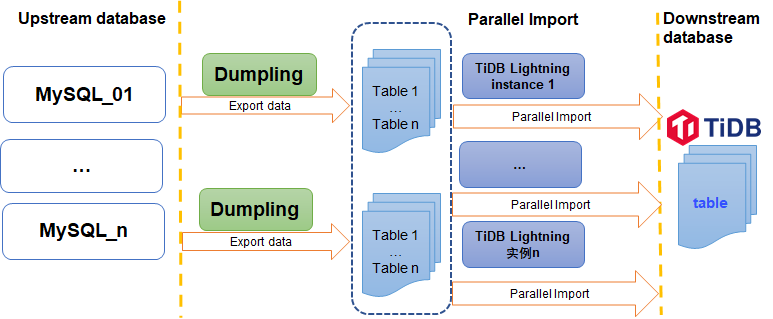
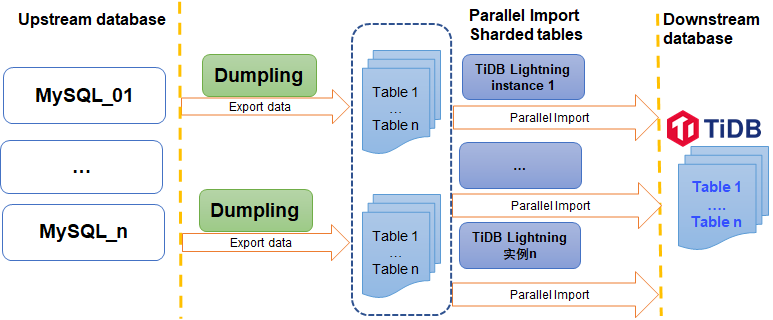
Added prechecks

diff --git a/tidb-lightning/tidb-lightning-prechecks.md b/tidb-lightning/tidb-lightning-prechecks.md
@@ -1,0 +1,19 @@
+---
+title: TiDB Lightning Prechecks
+summary: This document describes the checks that TiDB Lightning performs before performing a data migration task. These precheckes ensure that TiDB Lightning can perform the task smoothly.
+---
+
+# TiDB Lightning Prechecks
+
+Starting from TiDB 5.3.0, TiDB Lightning provides the ability to check the configuration before running a migration task. It is enabled by default. This feature automatically performs some routine checks for disk space and execution configuration. The main purpose is to ensure that the whole subsequent import process goes smoothly.
+
+The following table describes each check item and detailed explanation.
+
+|  Check Items | Description |
+|  ----  | ----  |
+| Cluster version and status| Check whether the cluster can be connected in the configuration, and whether the TiKV/PD/TiFlash version supports the Local import mode when the backend mode is Local. |
+| Disk space | Check whether there is enough space on the local disk and on the TiKV cluster for importing data. TiDB Lightning samples the data sources and estimates the percentage of the index size from the sample result. Because indexes are included in the estimation, there may be cases where the size of the source data is less than the available space on the local disk, but still the check fails. When the backend is Local, it also checks whether the local storage is sufficient because external sorting needs to be done locally. | 
+| Region distribution status | Check whether the distribution of regions in TiKV cluster is even and whether there are too many empty regions. If the number of empty regions exceeds max(1000, number of tables * 3), i.e. greater than the bigger one of "1000" or "3 times the number of tables ", then the import cannot be executed. |
+| Exceedingly Large CSV files in the data file | When there are CSV files larger than 10 GiB in the backup file and auto-slicing is not enabled (StrictFormat=false), it will impact the import performance. The purpose of this check is to remind you to ensure the data is in the right format and to enable auto-slicing. |
+| Recovery from breakpoints | This check ensures that no changes are made to the source file or schema in the database during the breakpoint recovery process that would result in importing the wrong data. |
+| Import into an existing table | When importing into an already created table, it checks, as much as possible, whether the source file matches the existing table. Check if the number of columns matches. If the source file has column names, check if the column names match. When there are default columns in the source file, it checks if the default columns have Default Value, and if they have, the check passes. ｜

diff --git a/tidb-lightning/tidb-lightning-distributed-import.md b/tidb-lightning/tidb-lightning-distributed-import.md
@@ -18,11 +18,11 @@ You can use TiDB Lightning to import data in parallel in the following scenarios
 >
 > Parallel import only supports the initialized empty tables in TiDB. It does not support migrating data to tables with data written by existing services. Otherwise, data inconsistencies may occur.
 
-The following diagram shows how importing sharded schemas and sharded tables works.
+The following diagram shows how importing sharded schemas and sharded tables works. In this scenario, you can use multiple TiDB Lightning instances to import MySQL sharded tables to a downstream TiDB cluster. 
 
 ![Import sharded schemas and sharded tables](/media/parallel-import-shard-tables-en.png)
 
-The following diagram shows how importing single tables works.
+The following diagram shows how importing single tables works. In this scenario, you can use multiple TiDB Lightning instances to split data from a single table and import it in parallel to a downstream TiDB cluster.
 
 ![Import single tables](/media/parallel-import-single-tables-en.png)
 
@@ -111,6 +111,14 @@ Start TiDB Lightning on each server in turn. If you use `nohup` to directly star
 # !/bin/bash
 nohup ./tidb-lightning -config tidb-lightning.toml > nohup.out &
 ```
+
+During parallel import, TiDB Lightning automatically performs the following checks after starting the task.
+
+- Check whether there is enough space on the local disk and on the TiKV cluster for importing data. TiDB Lightning samples the data sources and estimates the percentage of the index size from the sample result. Because indexes are included in the estimation, there may be cases where the size of the source data is less than the available space on the local disk, but still the check fails.
+- Check whether the distribution of regions in TiKV cluster is even and whether there are too many empty regions. If the number of empty regions exceeds max(1000, number of tables * 3), i.e. greater than the bigger one of "1000" or "3 times the number of tables ", then the import cannot be executed.
+- Check whether the data is imported in order from the data sources. The size of `mydumper.batch-size` is automatically adjusted based on the result of the check. Therefore, the `mydumper.batch-size` configuration is no longer available.
+
+You can also turn off the check and perform a forced import with the `lightning.check-requirements` configuration. For more detailed checks, see [TiDB Lightning prechecks](/tidb-lightning/tidb-lightning-prechecks.md)
 
 ### Step 4: Check the import progress
 

diff --git a/TOC.md b/TOC.md
@@ -196,6 +196,7 @@
     + [Overview](/tidb-lightning/tidb-lightning-overview.md)
     + [Tutorial](/get-started-with-tidb-lightning.md)
     + [Deploy](/tidb-lightning/deploy-tidb-lightning.md)
+    + [TiDB Lightning Prechecks](/tidb-lightning/tidb-lightning-prechecks.md)   
     + [Configure](/tidb-lightning/tidb-lightning-configuration.md)
     + Key Features
       + [Checkpoints](/tidb-lightning/tidb-lightning-checkpoints.md)
